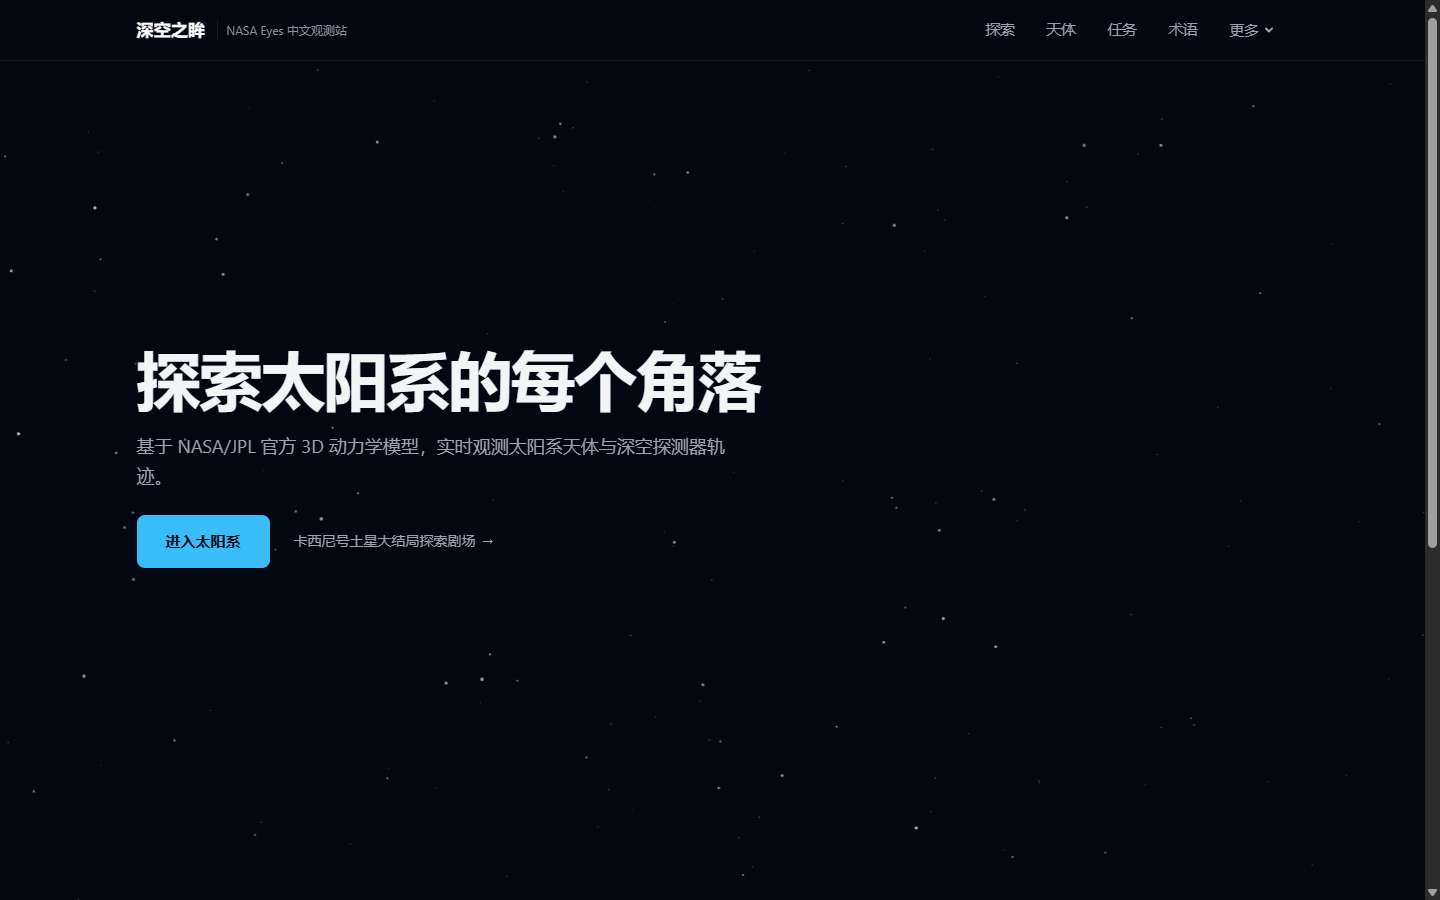
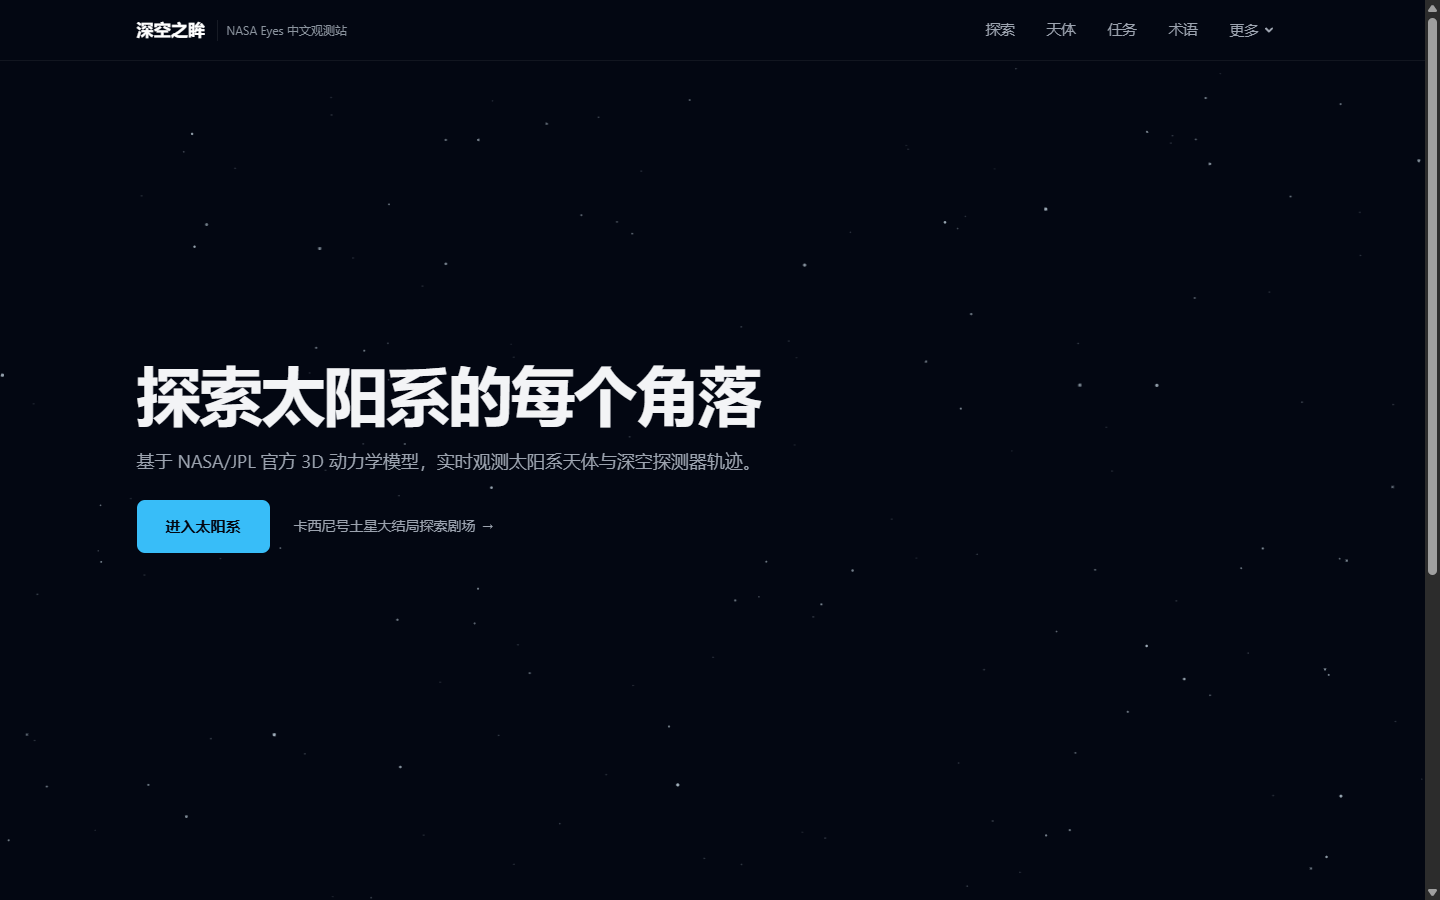
style(home): 消除首屏副标题孤字换行并缩减旗舰区与页脚间距

Changed region(s): [[0.0938, 0.3733, 0.5312, 0.6533], [0.2188, 0.56, 0.3438, 0.6222], [0.9688, 0.6222, 1.0, 0.6533]]

diff --git a/assets/css/main.css b/assets/css/main.css
@@ -325,7 +325,8 @@ a:hover {
   font-size: clamp(15px, 1.35vw, 18px);
   line-height: 1.65;
   color: var(--fg-dim);
-  max-width: 620px;
+  max-width: 780px;
+  text-wrap: balance;
 }
 .hero-actions {
   display: flex;
@@ -382,7 +383,7 @@ a:hover {
 
 /* ---------- Flagship Section (Minimalist Unboxed) ---------- */
 .flagship-section {
-  padding: var(--space-6) 0 var(--space-6);
+  padding: var(--space-6) 0 var(--space-4);
 }
 .flagship-section .section-title {
   font-size: 13px;
